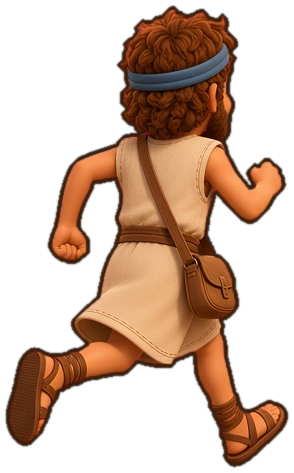
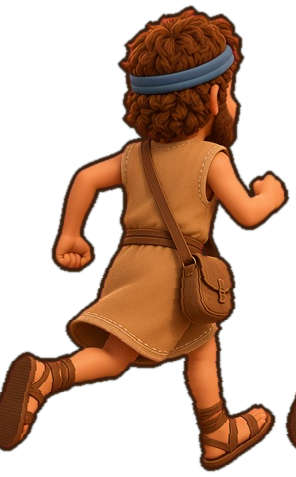
Fix runner frame color flicker; keep props clear of tower wall

diff --git a/game.js b/game.js
@@ -75,7 +75,7 @@ const M = {
   lantern: noOutline(new THREE.MeshBasicMaterial({ color: 0xffe066 })),
   rope: new THREE.LineBasicMaterial({ color: 0x6b4a2e }),
 };
-function spriteMat(tex) { return noOutline(new THREE.MeshBasicMaterial({ map: tex, alphaTest: 0.45, side: THREE.DoubleSide, fog: true })); }
+function spriteMat(tex) { return noOutline(new THREE.MeshBasicMaterial({ map: tex, alphaTest: 0.45, side: THREE.DoubleSide, fog: true, toneMapped: false })); }
 const planeG = new THREE.PlaneGeometry(1, 1); planeG.translate(0, 0.5, 0);
 const planeC = new THREE.PlaneGeometry(1, 1);
 // billboard of given height (keeps texture aspect once loaded)
@@ -174,11 +174,13 @@ function buildSegBase(g) {
 }
 function buildDecor(kind) {
   const g = new THREE.Group();
-  if (kind === 'scaffold') { billboard('scaffold', 5.5, g, -3.2, rand(-3, 3)); }
-  if (kind === 'palm') { billboard('palm', 2.4, g, -3.3, rand(-4, 4)); }
-  if (kind === 'crane') { billboard('crane', 4.2, g, -3.1, rand(-3, 3)); }
-  if (kind === 'worker') { billboard('worker', 2.5, g, -3.2, rand(-4, 4)); }
-  if (kind === 'bricks') { billboard('bricks', 1.5, g, -3.2, rand(-4, 4)); billboard('bucket', 1, g, -3.3, rand(-4, 4)); }
+  // props stand against the wall (face at x=-3.9), angled so their full width stays between wall and inner lane
+  const prop = (n, h, z) => { const b = billboard(n, h, g, 0, z); const hw = b.scale.x / 2 * Math.cos(1.05); b.position.x = -3.75 + hw; b.userData.fixed = 1.05; return b; };
+  if (kind === 'scaffold') prop('scaffold', 4.4, rand(-3, 3));
+  if (kind === 'palm') prop('palm', 2.2, rand(-4, 4));
+  if (kind === 'crane') prop('crane', 3.6, rand(-3, 3));
+  if (kind === 'worker') prop('worker', 2.4, rand(-4, 4));
+  if (kind === 'bricks') { prop('bricks', 1.4, rand(-4, -1)); prop('bucket', 1, rand(1, 4)); }
   return g;
 }
 function buildBanners() {
@@ -622,7 +624,7 @@ function update(dt) {
     const air = S.y > 0.01, sl = S.sliding > 0;
     if (sl) { P.setFrame('slide', 1.45); P.body.position.y = 0; }
     else if (air) { P.setFrame('jump', 2.35); P.body.position.y = 0; }
-    else { const f = Math.floor(animT / 1.6) % 2; P.setFrame(f ? 'run1' : 'run0', 2.3); P.body.position.y = Math.abs(Math.sin(animT * 0.98)) * 0.12; P.sprite.scale.x *= f ? -1 : 1; }
+    else { const f = Math.floor(animT / 1.6) % 2; P.setFrame(f ? 'run1' : 'run0', 2.3); P.body.position.y = Math.abs(Math.sin(animT * 0.98)) * 0.12; }
     P.body.rotation.z = P.lean * 0.18;
   }
   P.blob.scale.setScalar(1 - Math.min(0.6, S.y * 0.2));
@@ -677,7 +679,7 @@ document.addEventListener('visibilitychange', () => { if (document.hidden && S.s
 function frame() {
   const dt = Math.min(0.05, clock.getDelta());
   if (S.state !== 'paused') update(dt);
-  for (const b of billboards) { if (!b.parent?.visible && b.parent !== scene) continue; b.getWorldPosition(_wp); b.rotation.y = Math.atan2(camera.position.x - _wp.x, camera.position.z - _wp.z) * 0.6; }
+  for (const b of billboards) { if (!b.parent?.visible && b.parent !== scene) continue; if (b.userData.fixed != null) { b.rotation.y = b.userData.fixed; continue; } _wp.copy(camera.position); b.parent.worldToLocal(_wp); const lim = b.userData.lim ?? 0.35; b.rotation.y = Math.max(-lim, Math.min(lim, Math.atan2(_wp.x - b.position.x, _wp.z - b.position.z) * 0.6)); }
   if (useOutline) outline.render(scene, camera); else renderer.render(scene, camera);
   adaptQuality(dt);
   requestAnimationFrame(frame);
@@ -686,4 +688,4 @@ const _wp = new THREE.Vector3(); if (Q.has('nooutline')) useOutline = false;
 initClouds(); S.state = 'menu'; show('loading', false);
 // spawn a few attract-mode items on menu
 frame();
-window.__game = { S, startGame, act, Sfx };
+window.__game = { S, startGame, act, Sfx, spawnOb, spawnItem };
